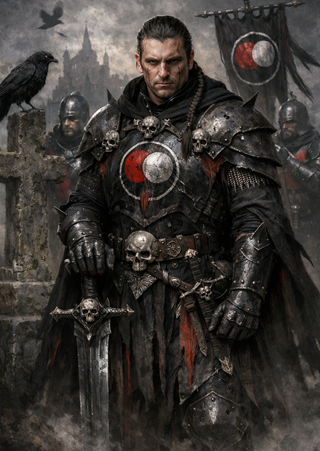
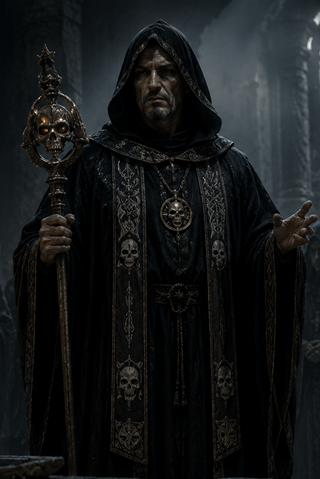
Add Priest of Darton

diff --git a/M.A.G.U.S/Classes/Believer/GodsOfPyarron/DartonPriest.cs b/M.A.G.U.S/Classes/Believer/GodsOfPyarron/DartonPriest.cs
@@ -1,0 +1,55 @@
+using M.A.G.U.S.Enums;
+using M.A.G.U.S.GameSystem.Qualifications;
+using M.A.G.U.S.Qualifications;
+using M.A.G.U.S.Qualifications.Combat;
+using M.A.G.U.S.Qualifications.Laical;
+using M.A.G.U.S.Qualifications.Scientific;
+using M.A.G.U.S.Qualifications.Underworld;
+
+namespace M.A.G.U.S.Classes.Believer.GodsOfPyarron;
+
+public class DartonPriest : Paladin
+{
+    public DartonPriest() : base() { }
+
+    public DartonPriest(int level, bool autoGenerateSkills) : base(level, autoGenerateSkills) { }
+
+    public override QualificationList Qualifications
+    {
+        get
+        {
+            var result = base.Qualifications;
+            result.AddRange(
+            [
+                new WeaponUse(),
+                new WeaponUse(),
+                new WeaponThrowing(),
+                new MagicLore() { Note = "Necromancy" },
+                new Healing(),
+                new Physiology(),
+                new Embalming(),
+                new SingingAndMakingMusic()
+            ]);
+            return BuildQualifications(result);
+        }
+    }
+
+    public override QualificationList FutureQualifications
+    {
+        get
+        {
+            var result = base.FutureQualifications;
+            result.AddRange(
+            [
+                new Backstab(level: 3),
+                new Embalming(QualificationLevel.Master, 5),
+                new MagicLore(QualificationLevel.Master, 9) { Note = "Necromancy" }
+            ]);
+            return BuildQualifications(result);
+        }
+    }
+
+    public override string Name => "Priest of Darton";
+
+    public override Deity Deity { get; set; } = Deity.Darton;
+}

diff --git a/M.A.G.U.S/Classes/Believer/GodsOfPyarron/ArelPriest.cs b/M.A.G.U.S/Classes/Believer/GodsOfPyarron/ArelPriest.cs
@@ -18,6 +18,14 @@ public class ArelPriest : Priest
 
     public override Alignment Alignment => Alignment.ChaosLife;
 
+    public override int InitiateBaseValue => 9;
+
+    public override int AttackBaseValue => 18;
+
+    public override int DefenseBaseValue => 73;
+
+    public override int CombatValueModifierPerLevel => 9;
+
     public override QualificationList Qualifications
 	{
 		get